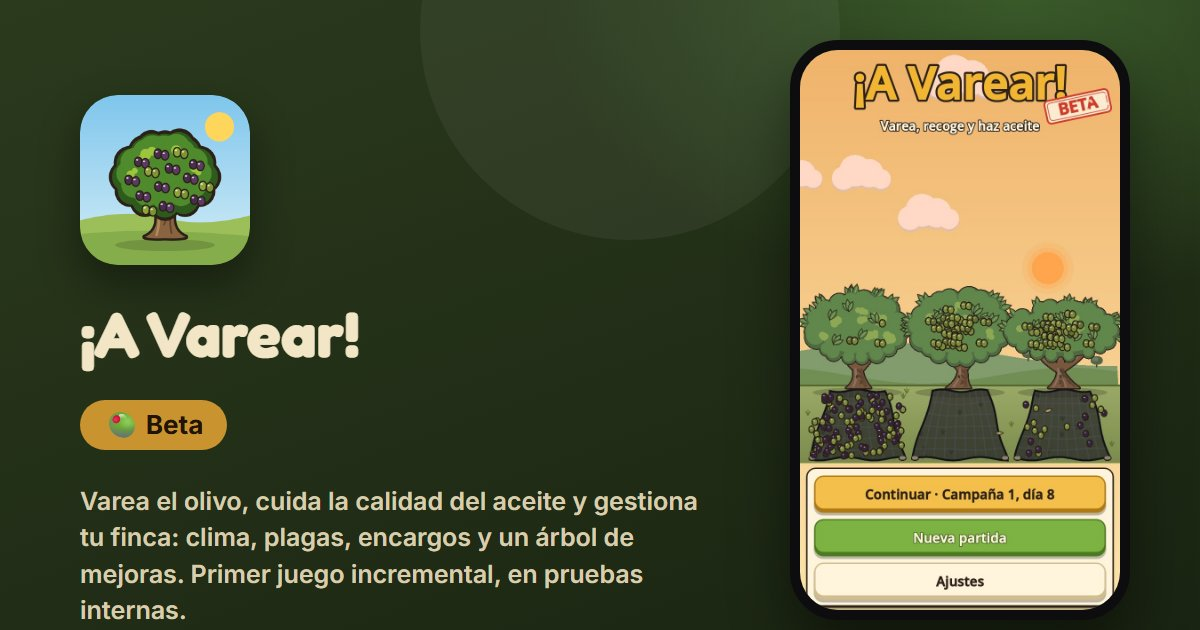
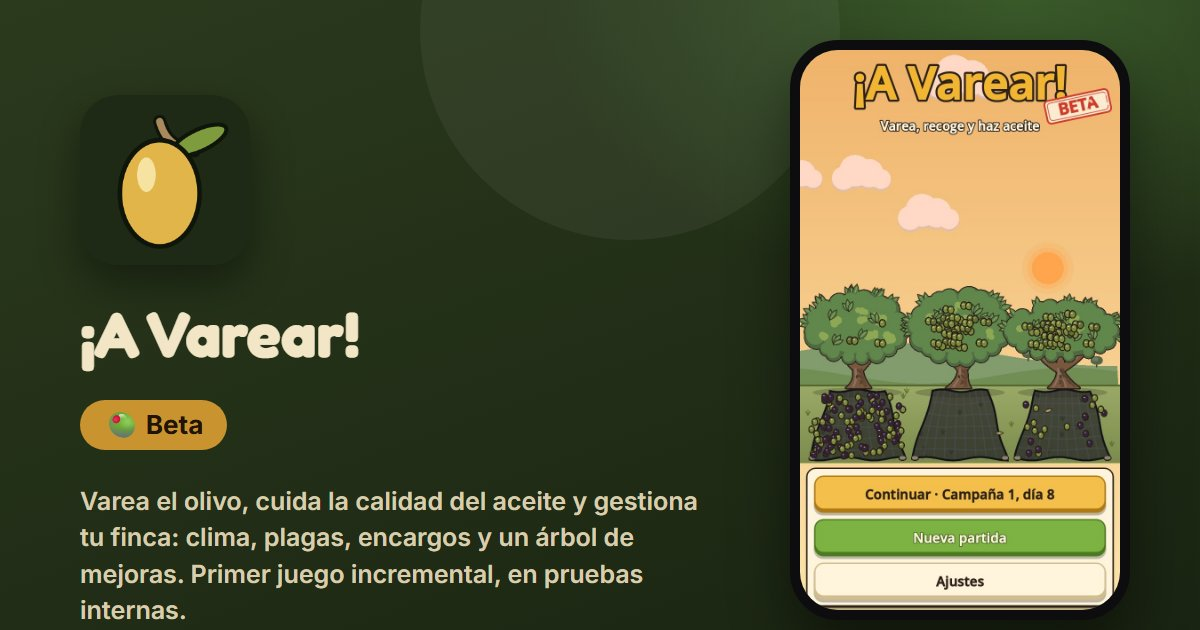
Icono definitivo de ¡A Varear! y políticas de privacidad de ¡A Varear! y ABYSSAL
- ¡A Varear!: icono final (una sola aceituna, más simple) e icono y portada actualizados
- Ambos juegos usan ya el plugin AdmobPlugin (banner + anuncios con premio): se añade su política de privacidad, con la sección de AdMob, consentimiento RGPD y anuncios opcionales con premio
- Reutilizado el texto que el equipo ya había preparado para la ficha de Google Play de ABYSSAL

Changed region(s): [[0.0617, 0.1508, 0.2158, 0.4222]]

diff --git a/privacidad/abyssal.html b/privacidad/abyssal.html
@@ -1,0 +1,92 @@
+<!doctype html>
+<html lang="es">
+<head>
+  <meta charset="utf-8">
+  <meta name="viewport" content="width=device-width, initial-scale=1">
+  <title>ABYSSAL · Política de privacidad / Privacy policy</title>
+  <link rel="icon" href="../img/favicon.svg" type="image/svg+xml">
+  <link rel="stylesheet" href="../css/privacy.css">
+</head>
+<body>
+<header>
+  <div class="in">
+    <a class="back" href="../index.html">← <span data-site="developer">Valdepony Games</span></a>
+    <h1>ABYSSAL · Política de privacidad</h1>
+    <p class="date">Última actualización · Last updated: 27/11/2026</p>
+    <nav class="lang"><a href="#es">Español</a><a href="#en">English</a></nav>
+  </div>
+</header>
+<main>
+
+<section id="es" lang="es">
+  <h2>Política de privacidad</h2>
+  <p>ABYSSAL es un juego creado por <strong data-site="developer">Valdepony Games</strong>. No tiene registro ni cuentas de usuario y no pide tu nombre, tu correo ni ningún otro dato personal. El juego puede mostrar anuncios de Google AdMob, que sí usan algunos datos de tu dispositivo, como se explica abajo.</p>
+
+  <h3>Dónde se guarda tu información</h3>
+  <p>Tu partida (monedas, energía, mejoras, Luminas descubiertas y estadísticas) y tus ajustes (idioma y sonido) se guardan <strong>solo en tu dispositivo</strong>. Nunca nos llegan. Se borran al desinstalar el juego.</p>
+
+  <h3>Anuncios (Google AdMob)</h3>
+  <p>Para mostrar anuncios usamos el SDK de Google Mobile Ads (AdMob), de Google Ireland Limited / Google LLC. Según Google, este SDK recoge y comparte con Google de forma automática, con fines de publicidad, análisis y prevención del fraude:</p>
+  <ul>
+    <li>la dirección IP del dispositivo, que puede usarse para estimar su ubicación aproximada;</li>
+    <li>interacciones con la app y con los anuncios (por ejemplo, abrir la app, toques y vídeos vistos);</li>
+    <li>información de diagnóstico (rendimiento de la app y del SDK);</li>
+    <li>identificadores del dispositivo, como el ID de publicidad de Android.</li>
+  </ul>
+  <p>Estos datos viajan cifrados. Puedes restablecer o borrar el ID de publicidad en los ajustes de Android. Más información: <a href="https://policies.google.com/technologies/partner-sites" target="_blank" rel="noopener">cómo utiliza Google la información</a> y <a href="https://developers.google.com/admob/android/privacy/play-data-disclosure" target="_blank" rel="noopener">divulgación de datos de AdMob</a>.</p>
+
+  <h3>Consentimiento</h3>
+  <p>Si estás en el Espacio Económico Europeo, el Reino Unido o Suiza, al abrir el juego verás el formulario de consentimiento de Google para decidir si aceptas anuncios personalizados. Puedes jugar igualmente si no los aceptas: verás anuncios no personalizados.</p>
+
+  <h3>Anuncios opcionales con premio</h3>
+  <p>Los anuncios de vídeo con premio (oro extra, una mejora gratis o recoger lo producido mientras no estabas) solo se muestran si tú pulsas el botón para verlos. La versión del navegador (web) no muestra anuncios reales, solo uno simulado para probar el flujo.</p>
+
+  <h3>Menores</h3>
+  <p>ABYSSAL no está dirigido a menores de 13 años y no recoge a sabiendas datos personales de menores.</p>
+
+  <h3>Cambios</h3>
+  <p>Si esta política cambia, se publicará aquí con una nueva fecha.</p>
+
+  <h3>Contacto</h3>
+  <p><a data-site="email" href="mailto:mariodeveloper92@gmail.com">mariodeveloper92@gmail.com</a></p>
+</section>
+
+<section id="en" lang="en">
+  <h2>Privacy policy</h2>
+  <p>ABYSSAL is a game made by <strong data-site="developer">Valdepony Games</strong>. It has no sign-up or user accounts and does not ask for your name, email or any other personal data. The game may show ads from Google AdMob, which do use some data from your device, as explained below.</p>
+
+  <h3>Where your information is stored</h3>
+  <p>Your game (coins, energy, upgrades, discovered Luminas and statistics) and your settings (language and sound) are stored <strong>only on your device</strong>. They never reach us. They are deleted when you uninstall the game.</p>
+
+  <h3>Ads (Google AdMob)</h3>
+  <p>To show ads we use the Google Mobile Ads SDK (AdMob), by Google Ireland Limited / Google LLC. According to Google, this SDK automatically collects and shares with Google, for advertising, analytics and fraud prevention:</p>
+  <ul>
+    <li>the device's IP address, which may be used to estimate its approximate location;</li>
+    <li>app and ad interactions (for example app launches, taps and video views);</li>
+    <li>diagnostic information (app and SDK performance);</li>
+    <li>device identifiers, such as the Android advertising ID.</li>
+  </ul>
+  <p>This data is encrypted in transit. You can reset or delete your advertising ID in your Android settings. More information: <a href="https://policies.google.com/technologies/partner-sites" target="_blank" rel="noopener">how Google uses information</a> and <a href="https://developers.google.com/admob/android/privacy/play-data-disclosure" target="_blank" rel="noopener">AdMob data disclosure</a>.</p>
+
+  <h3>Consent</h3>
+  <p>If you are in the European Economic Area, the United Kingdom or Switzerland, when you open the game you will see Google's consent form, where you decide whether to accept personalised ads. You can still play if you don't: you will see non-personalised ads.</p>
+
+  <h3>Optional rewarded ads</h3>
+  <p>Rewarded video ads (extra gold, a free upgrade or collecting what was produced while you were away) are only shown if you press the button to watch them. The browser (web) version does not show real ads, only a simulated one to test the flow.</p>
+
+  <h3>Children</h3>
+  <p>ABYSSAL is not directed at children under 13 and does not knowingly collect personal data from children.</p>
+
+  <h3>Changes</h3>
+  <p>If this policy changes, it will be published here with a new date.</p>
+
+  <h3>Contact</h3>
+  <p><a data-site="email" href="mailto:mariodeveloper92@gmail.com">mariodeveloper92@gmail.com</a></p>
+</section>
+
+</main>
+<footer>© <span data-site="developer">Valdepony Games</span></footer>
+<script src="../js/config.js"></script>
+<script src="../js/privacy.js"></script>
+</body>
+</html>

diff --git a/privacidad/olivar-incremental.html b/privacidad/olivar-incremental.html
@@ -1,0 +1,92 @@
+<!doctype html>
+<html lang="es">
+<head>
+  <meta charset="utf-8">
+  <meta name="viewport" content="width=device-width, initial-scale=1">
+  <title>¡A Varear! · Política de privacidad / Privacy policy</title>
+  <link rel="icon" href="../img/favicon.svg" type="image/svg+xml">
+  <link rel="stylesheet" href="../css/privacy.css">
+</head>
+<body>
+<header>
+  <div class="in">
+    <a class="back" href="../index.html">← <span data-site="developer">Valdepony Games</span></a>
+    <h1>¡A Varear! · Política de privacidad</h1>
+    <p class="date">Última actualización · Last updated: 27/11/2026</p>
+    <nav class="lang"><a href="#es">Español</a><a href="#en">English</a></nav>
+  </div>
+</header>
+<main>
+
+<section id="es" lang="es">
+  <h2>Política de privacidad</h2>
+  <p>¡A Varear! es un juego creado por <strong data-site="developer">Valdepony Games</strong>. No tiene registro ni cuentas de usuario y no pide tu nombre, tu correo ni ningún otro dato personal. El juego puede mostrar anuncios de Google AdMob, que sí usan algunos datos de tu dispositivo, como se explica abajo.</p>
+
+  <h3>Dónde se guarda tu información</h3>
+  <p>Tu partida (dinero, el olivar, mejoras, campañas y estadísticas) y tus ajustes (idioma y sonido) se guardan <strong>solo en tu dispositivo</strong>. Nunca nos llegan. Se borran al desinstalar el juego.</p>
+
+  <h3>Anuncios (Google AdMob)</h3>
+  <p>Para mostrar anuncios usamos el SDK de Google Mobile Ads (AdMob), de Google Ireland Limited / Google LLC. Según Google, este SDK recoge y comparte con Google de forma automática, con fines de publicidad, análisis y prevención del fraude:</p>
+  <ul>
+    <li>la dirección IP del dispositivo, que puede usarse para estimar su ubicación aproximada;</li>
+    <li>interacciones con la app y con los anuncios (por ejemplo, abrir la app, toques y vídeos vistos);</li>
+    <li>información de diagnóstico (rendimiento de la app y del SDK);</li>
+    <li>identificadores del dispositivo, como el ID de publicidad de Android.</li>
+  </ul>
+  <p>Estos datos viajan cifrados. Puedes restablecer o borrar el ID de publicidad en los ajustes de Android. Más información: <a href="https://policies.google.com/technologies/partner-sites" target="_blank" rel="noopener">cómo utiliza Google la información</a> y <a href="https://developers.google.com/admob/android/privacy/play-data-disclosure" target="_blank" rel="noopener">divulgación de datos de AdMob</a>.</p>
+
+  <h3>Consentimiento</h3>
+  <p>Si estás en el Espacio Económico Europeo, el Reino Unido o Suiza, al abrir el juego verás el formulario de consentimiento de Google para decidir si aceptas anuncios personalizados. Puedes jugar igualmente si no los aceptas: verás anuncios no personalizados.</p>
+
+  <h3>Anuncios opcionales con premio</h3>
+  <p>Los anuncios de vídeo con premio (recuperar la estamina, dinero extra de noche, un nivel gratis de una mejora o un giro extra de la ruleta) solo se muestran si tú pulsas el botón para verlos. La versión del navegador (web) y la de PC no muestran anuncios.</p>
+
+  <h3>Menores</h3>
+  <p>¡A Varear! no está dirigido a menores de 13 años y no recoge a sabiendas datos personales de menores.</p>
+
+  <h3>Cambios</h3>
+  <p>Si esta política cambia, se publicará aquí con una nueva fecha.</p>
+
+  <h3>Contacto</h3>
+  <p><a data-site="email" href="mailto:mariodeveloper92@gmail.com">mariodeveloper92@gmail.com</a></p>
+</section>
+
+<section id="en" lang="en">
+  <h2>Privacy policy</h2>
+  <p>¡A Varear! is a game made by <strong data-site="developer">Valdepony Games</strong>. It has no sign-up or user accounts and does not ask for your name, email or any other personal data. The game may show ads from Google AdMob, which do use some data from your device, as explained below.</p>
+
+  <h3>Where your information is stored</h3>
+  <p>Your game (money, your olive grove, upgrades, campaigns and statistics) and your settings (language and sound) are stored <strong>only on your device</strong>. They never reach us. They are deleted when you uninstall the game.</p>
+
+  <h3>Ads (Google AdMob)</h3>
+  <p>To show ads we use the Google Mobile Ads SDK (AdMob), by Google Ireland Limited / Google LLC. According to Google, this SDK automatically collects and shares with Google, for advertising, analytics and fraud prevention:</p>
+  <ul>
+    <li>the device's IP address, which may be used to estimate its approximate location;</li>
+    <li>app and ad interactions (for example app launches, taps and video views);</li>
+    <li>diagnostic information (app and SDK performance);</li>
+    <li>device identifiers, such as the Android advertising ID.</li>
+  </ul>
+  <p>This data is encrypted in transit. You can reset or delete your advertising ID in your Android settings. More information: <a href="https://policies.google.com/technologies/partner-sites" target="_blank" rel="noopener">how Google uses information</a> and <a href="https://developers.google.com/admob/android/privacy/play-data-disclosure" target="_blank" rel="noopener">AdMob data disclosure</a>.</p>
+
+  <h3>Consent</h3>
+  <p>If you are in the European Economic Area, the United Kingdom or Switzerland, when you open the game you will see Google's consent form, where you decide whether to accept personalised ads. You can still play if you don't: you will see non-personalised ads.</p>
+
+  <h3>Optional rewarded ads</h3>
+  <p>Rewarded video ads (restoring stamina, extra night money, a free upgrade level or an extra wheel spin) are only shown if you press the button to watch them. The browser (web) and PC versions show no ads at all.</p>
+
+  <h3>Children</h3>
+  <p>¡A Varear! is not directed at children under 13 and does not knowingly collect personal data from children.</p>
+
+  <h3>Changes</h3>
+  <p>If this policy changes, it will be published here with a new date.</p>
+
+  <h3>Contact</h3>
+  <p><a data-site="email" href="mailto:mariodeveloper92@gmail.com">mariodeveloper92@gmail.com</a></p>
+</section>
+
+</main>
+<footer>© <span data-site="developer">Valdepony Games</span></footer>
+<script src="../js/config.js"></script>
+<script src="../js/privacy.js"></script>
+</body>
+</html>

diff --git a/js/config.js b/js/config.js
@@ -171,7 +171,7 @@ const SITE = {
         "cómo la trates. De noche gestionas la finca: mejoras, bodega, encargos, clima y plagas, campaña tras campaña. " +
         "Nuestro primer juego incremental: un prototipo en fase beta, jugable ya en el navegador.",
       folder: "img/proyectos/olivar-incremental/",
-      icon: "icono.svg",
+      icon: "icono.png",
       cover: "portada.jpg",
       color: "#1f2a16",
       playInBrowserUrl: "https://valdeponygames.github.io/olivar-incremental/",
@@ -186,7 +186,7 @@ const SITE = {
       packageId: "",
       published: false,
       status: "En fase beta",
-      privacy: ""
+      privacy: "privacidad/olivar-incremental.html"
     },
     {
       id: "abyssal",
@@ -214,7 +214,7 @@ const SITE = {
       packageId: "",
       published: false,
       status: "En fase beta",
-      privacy: ""
+      privacy: "privacidad/abyssal.html"
     },
     {
       id: "pilates-en-casa",
